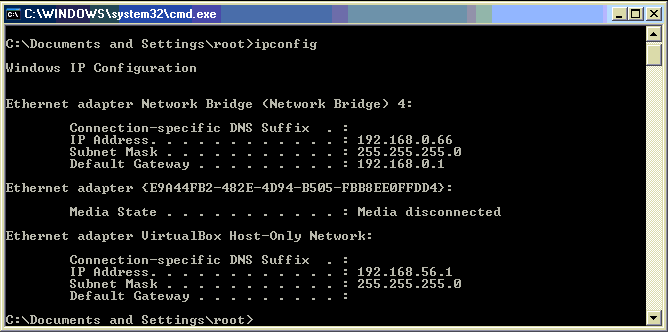
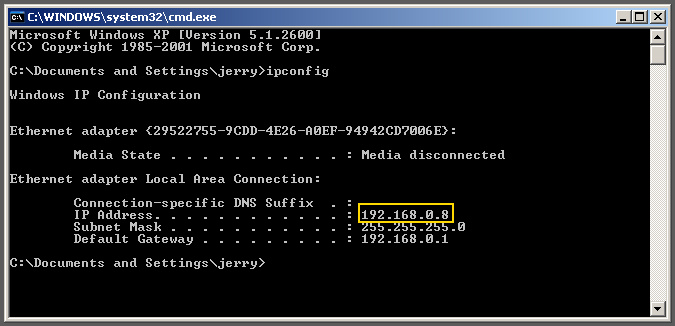
manual

diff --git a/C/network.html b/C/network.html
@@ -284,7 +284,7 @@
 				<p>
 				<img border="0" src="img/win_ipconfig.png"></p>
 				<p>Usually the results at the top has your ip address listed. In 
-				the above example, the ip address is: <b>192.168.0.66<br>
+				the above example, the ip address is: <b>192.168.0.8<br>
 				</b>Make a note of this ip address.</p>
 				<p>Now go back to your Linux Lite computer, and open your home 
 				folder.</p>
@@ -293,7 +293,7 @@
 						<td><b>NOTE: If by the end of this Shares tutorial you 
 						are still not seeing any shares, try restarting both 
 						machines.<br>
-						Sometimes it can take a while before the share appears.</b></td>
+						Also note that sometimes it can take a while before the shares appear.</b></td>
 					</tr>
 				</table>
 				<p>&nbsp;</p>
